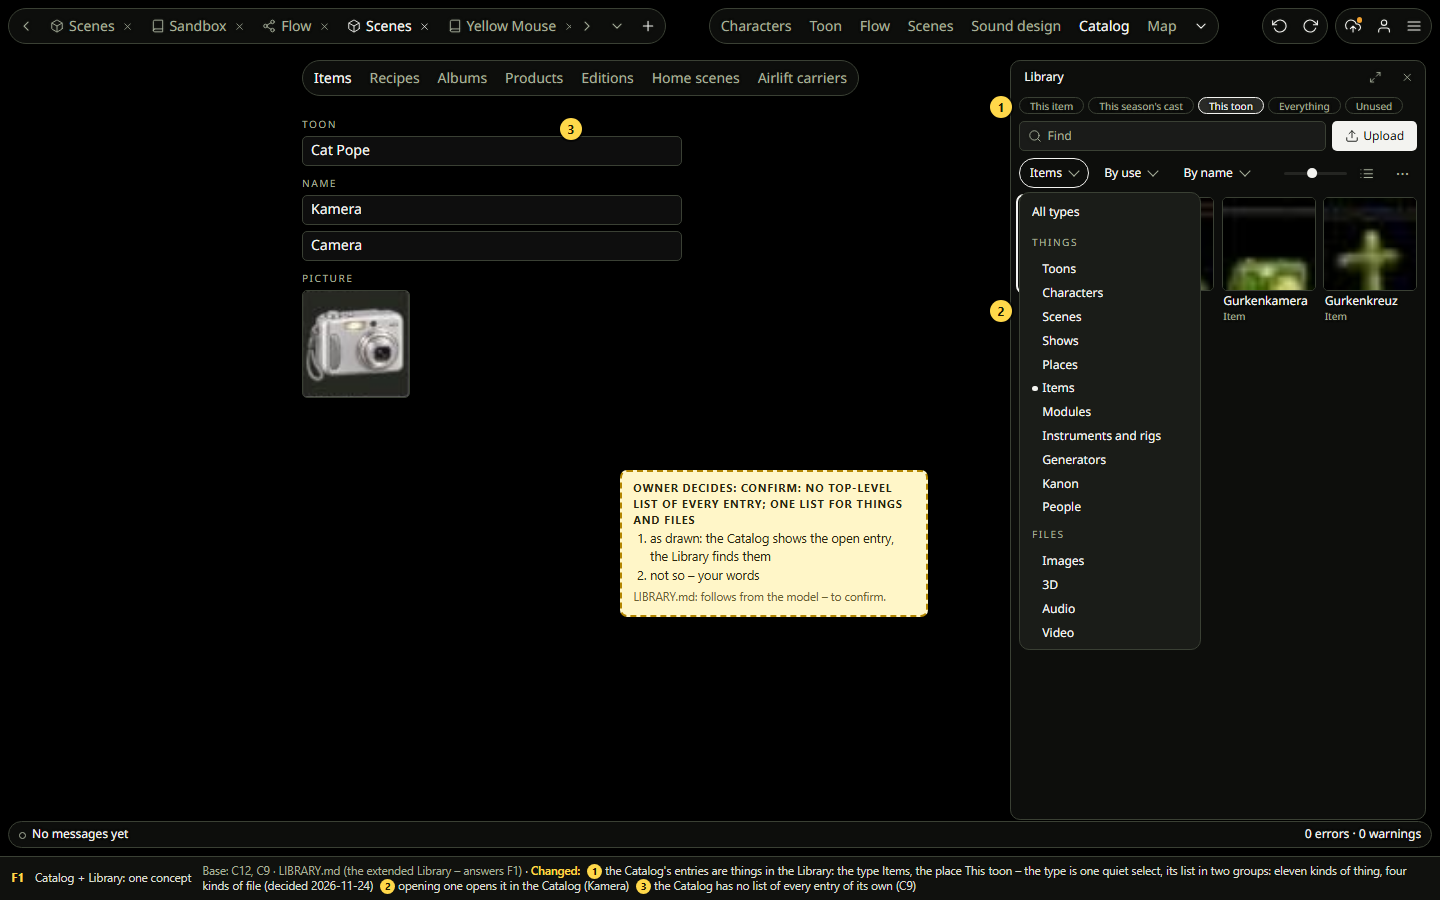
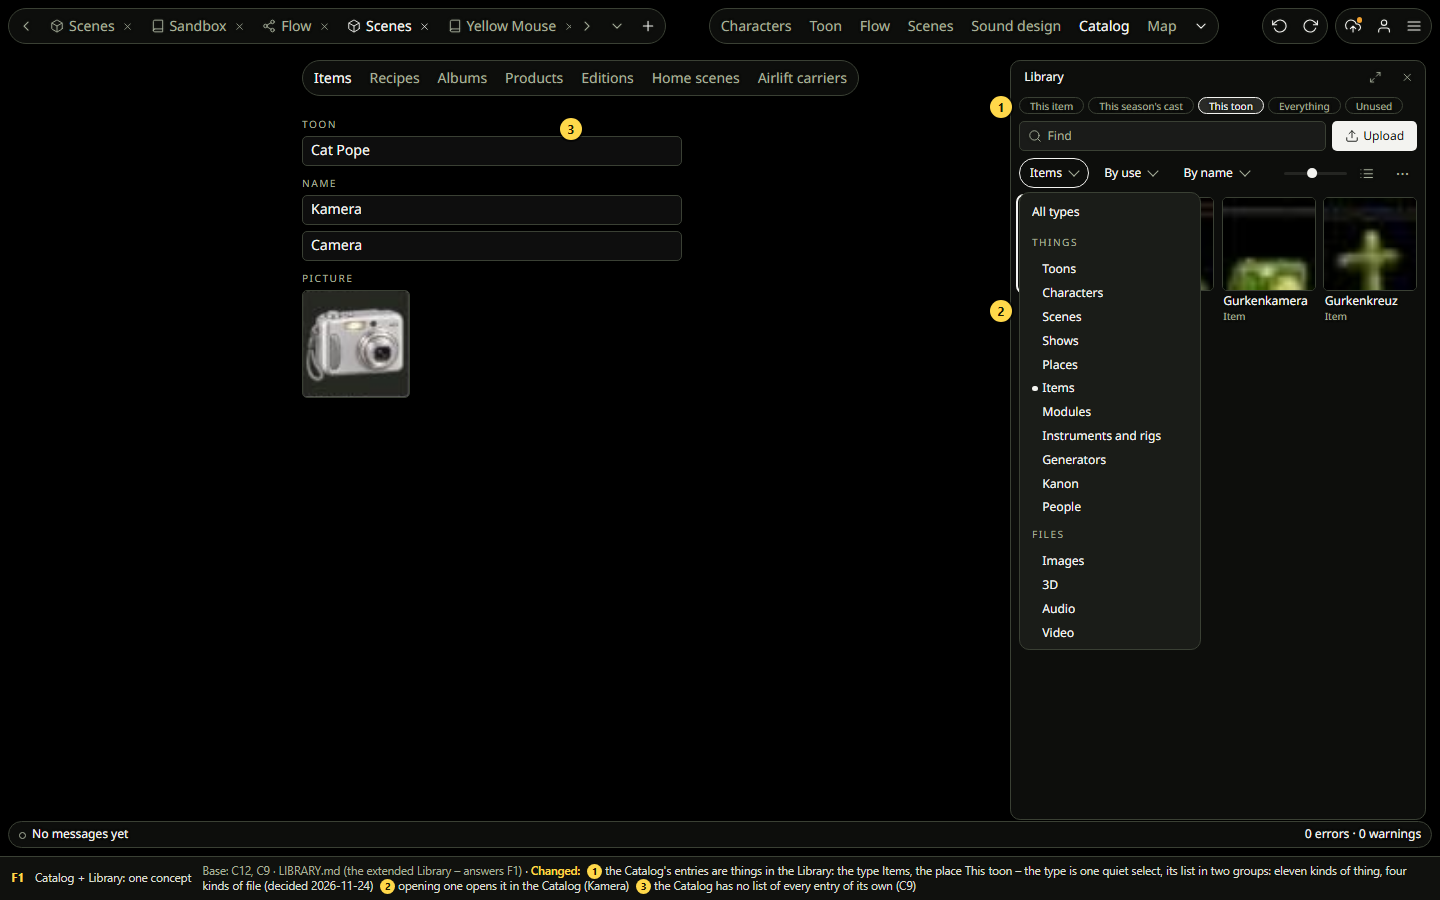
Lap 2 planning: the extended Library's five consequences stand as drawn (owner 2026-11-24); their question cards are off the draft. Refs #626

Changed region(s): [[0.4062, 0.4978, 0.6562, 0.6844]]

diff --git a/agents/research/redesign/lap2/draft-screens.js b/agents/research/redesign/lap2/draft-screens.js
@@ -222,7 +222,7 @@ add('C', 'C1', 'Toon: one toon – seasons, chapters, the cast', 'now/ws-toon (2
   ${fp(1053, 60, 373, 710, [['Flow', 0], ['Log', 1]], LOG_BODY)}
   ${folded(1278, 780, 'Library')}${cstatus('No messages yet', '')}
   ${mk(1, 270, 60)}${mk(2, 236, 96)}${ring(306, 96, 732, 280)}${mk(3, 940, 76)}${mk(4, 282, 118)}
-  ${qcard(306, 560, 'confirm: no top-level list of every toon in the Toon tree', ['as drawn: the tree of the open toon only – the toons are found in the Library', 'not so – your words'], 'LIBRARY.md: follows from the model – to confirm.', '24rem')}`;
+  `;
   });
 add('C', 'C2', 'Chapter', presetBase('chapter'), [KIT],
   () => `${wsFromPreset('Chapter', TOON_ITEMS, [LEFT([['Toon',1],['Tree',0]]), { x: 1076, y: 60, w: 350, h: 420, tabs: [['Inspector',1],['Log',0],['Flow',0]] }, { x: 1092, y: 735, w: 170, tabs: [['Preview',1]], folded: true }, LIBF], pageNotShot())}${mk(1, 270, 60)}`);
@@ -244,8 +244,7 @@ add('C', 'C4b', 'Characters: the Cast tab – cast in', "today's Cast tab (creat
   () => characters({ bar: { chevron: true, items: [['smile','crow-fox'],['smile','crow-lizard'],['smile','mellowmantis'],['smile','catpope']] }, tabs: [['Kanon',0],['Expressions',0],['Rig',0],['Voice',0],['Cast',1],['Generations',0]],
       body: `<div class="label" style="margin:.2rem 0 .5rem">Cast in</div>
       ${CAST_IN.map(([s, p]) => `<div style="display:flex;align-items:center;gap:.6rem;min-height:2.6rem;border-bottom:1px solid var(--tool-line)"><span style="font-size:1rem;text-decoration:underline;text-underline-offset:.2em">${s}</span><span class="muted" style="margin-left:auto">${p}</span><span class="kib muted" title="Open the season's cast in the toon">${ic('r')}</span></div>`).join('')}` })
-    + mk(1, 928, 120) + ring(952, 92, 470, 120) + mk(2, 928, 230)
-    + qcard(420, 140, 'confirm: the cast is no longer edited from each character\'s Cast tab', ['as drawn: the tab shows "cast in" and links to the toon\'s season', 'not so – your words'], 'LIBRARY.md: follows from the model – to confirm.', '22rem'));
+    + mk(1, 928, 120) + ring(952, 92, 470, 120) + mk(2, 928, 230));
 
 const TREE_SCENES = [['Avatar home','‹home› · spot_home · ‹who›','Published'],['Nave','cathedral · catpope','Published'],['Place','‹where›','Published'],['Sandy dunes','dunes','Published'],['Sandy dunes – Giant Popstar','dunes · giantpopstar · mellowmantis','Published'],['Sandy dunes – Sandgirl','dunes · sandgirl','Published'],['Sandy dunes – Sandgirl and S…','dunes · sandgirl · sandy','Published'],['Sandy dunes – stage','dunes · ‹left› · ‹right›','Published'],['Solo','‹where› · ‹who›','Published'],['Stage','‹where› · spot_centre · ‹left› · ‹centre› · ‹right› · ‹b…','Published'],['Three crows rave','crow-wolf · crow-lizard · crow-fox · yellowmouse','Draft']];
 /* today's Tree of every scene (now/creator-6) – gone in lap 2 (LIBRARY.md, decided): kept here only as today's record */
@@ -320,7 +319,7 @@ add('C', 'C9', 'Catalog', 'now/ws-catalog (Items, Kamera open, 2026-11-24)', [KI
       <div style="display:flex;gap:1.2rem;align-items:center">${[['stackable', 0], ['starter', 1], ['a story may take it', 0]].map(([n, on]) => `<span style="display:flex;gap:.45rem;align-items:center"><span class="tg ${on ? 'on' : ''}"></span>${n}</span>`).join('')}</div></div>
     ${folded(1265, 70, 'Log')}${folded(1278, 780, 'Library')}${cstatus('No messages yet', '0 errors · 0 warnings')}
     ${mk(1, 274, 60)}${ring(302, 112, 268, 700)}${mk(2, 546, 118)}${capn(330, 440, 'the list of every entry was here – gone')}${mk(3, 1110, 118)}
-    ${qcard(1100, 300, 'confirm: no top-level list of every entry in the Catalog', ['as drawn: an entry open – the entries are found in the Library (F1)', 'not so – your words'], 'LIBRARY.md: follows from the model – to confirm. The kind tabs (Items … Airlift carriers) kept as today – unclear.', '19rem')}`;
+    `;
   });
 
 add('C', 'C10', 'Map', 'now/creator-5 (the stage 0 px wide) · now/ws-map',
@@ -356,7 +355,7 @@ const catalogBack = (o = {}) => `${cbar({ chevron: true, wsOn: 'Catalog', items:
     <div class="label" style="margin-bottom:.3rem">Name</div><div class="fld" style="margin-bottom:.4rem">Kamera</div><div class="fld" style="margin-bottom:.8rem">Camera</div>
     <div class="label" style="margin-bottom:.3rem">Picture</div><div class="slot" style="width:108px;height:108px;border-style:solid;border-color:var(--tool-line);position:relative;overflow:hidden">${wsPic('catalog', 331, 343, 60, 60, 1.8)}</div></div>
   ${o.log === false ? '' : folded(1265, 70, 'Log')}${cstatus('No messages yet', '0 errors · 0 warnings')}`;
-const qOneList = (x, y, w = '21rem') => qcard(x, y, 'confirm: one list – "Items to open" goes', ['as drawn: things and files in one list, the type the first filter', 'not so – your words'], 'LIBRARY.md: follows from the model – to confirm.', w);
+const qOneList = () => '';   /* confirmed 2026-11-24: one list – no card */
 add('C', 'C12', 'Library: the panel', "today's library-panel.svelte (its parts and words) in now/ws-catalog (Kamera open) · LIBRARY.md (the extended Library)",
   ['the type is one quiet select ("All types"): eleven kinds of thing and four kinds of file, its list in two groups (F1 shows it open) – "Items to open" goes',
    "the places narrow it: This item · This season's cast · This toon · Everything (Unused as today)",
@@ -400,7 +399,7 @@ add('C', 'C12b', 'Library: the browser – a character stepped into', "today's l
       <div style="display:flex;align-items:center;gap:.5rem;margin-bottom:.6rem"><span style="font-size:var(--editor-title)">Library</span><span style="flex:1"></span><span class="kib muted" title="Close the browser (Esc)">${ic('x')}</span></div>
       ${libraryBody({ place: "This season's cast", content: stepIn() })}</div></div>
   ${mk(1, 40, 250)}${mk(2, 300, 330)}${mk(3, 902, 280)}${mk(4, 902, 478)}${mk(5, 40, 230)}${mk(6, 1390, 60)}
-  ${qcard(1000, 600, 'confirm: "By cast" lists the characters and their files', ['as drawn: the cast\'s place shows the characters, stepped into each its files', 'not so – files only, as today'], 'LIBRARY.md: follows from the model – to confirm.', '22rem')}
+  
   ${capn(60, 822, 'Open: do Search and dialogs sit on the overlay level (blurred behind) or on the popover level (sharp)? – drawn as today')}`);
 
 /* C12c: the Library opened from a slot – the "who" (character) of a showMessage event in a chapter of Cat Pope; the cast first, everyone else after (the registry's characters) */
@@ -417,7 +416,7 @@ add('C', 'C12c', 'Library: the pick (a slot asks)', "today's pick mode (library-
     ${libraryPanel(660, 60, 400, 760, { cols: 4, pick: 'character · showMessage', type: 'Characters', place: 'Everything', gap: '.5rem .5rem',
       groups: [['Cat Pope · Season 1 · cast', [tl('catpope'), tl('boy'), tl('crows'), tl('toptoy')]], ['Everyone else', OTHERS]] })}
     ${ring(1082, 154, 340, 36)}${mk(1, 1062, 160)}${mk(2, 640, 300)}${mk(3, 640, 450)}${capn(790, 446, 'picked from here: added to the cast')}${mk(4, 640, 96)}
-    ${qcard(150, 520, 'confirm: one picker – the Library opened from a slot', ['as drawn: the five sheets (character, item, asset, person, role) go', 'not so – your words'], 'LIBRARY.md: follows from the model – to confirm.', '22rem')}`);
+    `);
 
 add('C', 'C13', 'Settings', "the Settings panel in now/creator-6 (the owner's circles)",
   ["kit look: the crafts as the kit's small chips, the theme as the kit's segments, the interface language as the kit's select (today a raw select)", 'the colour-blind mode as a setting (blue, yellow, vermilion – each state with a mark ✓ ! ✕)', "no hint lines in the panel (H14) – the text language's and the local folder's explanations go to hover"],
@@ -501,7 +500,7 @@ add('F', 'F1', 'Catalog + Library: one concept', 'C12, C9 · LIBRARY.md (the ext
    'opening one opens it in the Catalog (Kamera)', 'the Catalog has no list of every entry of its own (C9)'],
   () => `${catalogBack({ log: false })}${libraryPanel(1010, 60, 416, 760, { cols: 4, type: 'Items', typeOpen: true, place: 'This toon', tiles: [tl('kamera', { on: 1 }), tl('gurke'), tl('gurkenkamera'), tl('gurkenkreuz')] })}
   ${mk(1, 990, 96)}${mk(2, 990, 300)}${mk(3, 560, 118)}
-  ${qcard(620, 470, 'confirm: no top-level list of every entry; one list for things and files', ['as drawn: the Catalog shows the open entry, the Library finds them', 'not so – your words'], 'LIBRARY.md: follows from the model – to confirm.', '22rem')}`);
+  `);
 add('F', 'F2', 'The one-look sheet', 'kit-d.html (approved 2026-11-24)', [], frl('kit-d.html', ''), { idle: ' – nothing: approved as drawn' });
 add('F', 'F3', "The scene page's contents", 'C5 (answered: a preview and the link to the deck)', [],
   () => `${scenePageC5()}${capn(640, 820, 'answered – drawn as C5: the page previews and links, it does not edit')}`, { idle: ' – nothing: answered, drawn as C5' });

diff --git a/agents/decisions/creator.md b/agents/decisions/creator.md
@@ -4,6 +4,7 @@ The owner's words, one line each, newest first, append-only (how: agents/DECISIO
 Keys here: `[creator]` 85 the creator app · `[text-boxes]` 9 text boxes · `[timeline]` 3 the timeline
 
 ## 2026-11
+- 2026-11-24 · creator deck · [creator] **The extended Library's five consequences stand as drawn: the second list of things ("items to open") goes – one list; the Catalog tree and the Toon tree lose their top level (no list of every entry or every toon); one picker – the Library opened from a slot – replaces the five sheets (character, item, asset, person, role); the character's Cast tab shows "cast in", read-only, the cast is edited in the toon's season; "By cast" lists the characters and their files.** Owner, on the five question cards of the draft: *"Yes, as drawn."* Trees that travel between workspaces had no card and is not confirmed. · → research/redesign/lap2/LIBRARY.md, PLAN.md P11
 - 2026-11-24 · creator deck · [creator] **The Library's type filter is one quiet select ("All types"), its list in two groups – the eleven kinds of thing and the four kinds of file; the places stay chips.** Asked because fifteen types do not fit a row of chips. Owner: *"Yes, a select."* · → research/redesign/lap2/LIBRARY.md, draft `?s=C12`, `?s=F1`
 - 2026-11-24 · creator deck · [creator] **The extended Library: it lists Toon · Character · Scene · Show · Place · Item (with recipes, products, editions, albums, home scenes) · Module · Instrument and rig · Generator, and for now Kanon texts and people too; it is built in lap 2; a video's tile is one frame (no play on hover for now); the deck's Library is the same Library with the same panel.** Owner, on LIBRARY.md's four open points: *"1. … for now yes. 2. … built it in lap 2. 3. … play on hover is at this point not necessary. 4. … yes."* · → research/redesign/lap2/LIBRARY.md, PLAN.md P11
 - 2026-11-24 · creator · [creator] **The extended Library: it lists things and files. A character's personas, looks and moods stay inside the character (stepped into), with the files it uses beside them. A cast is characters assigned to a toon: found in the Library, edited in the toon – and opening a character from there comes to the Characters workspace to edit it.** Owner: *"Well, but a cast is a character assigned to a toon. So characters get listed alongside their assets like models."* · on the parts inside the character: *"Yes, stay inside character. Makes total sense."* · on found in the Library, edited in the toon: *"Yes. But edited in the toon means we can still just open it and come to the character workspace to edit it."* · *"We need to recap and kick out redundant concepts and redraw many screens now, due to the … extended Library."* What it makes redundant is listed in LIBRARY.md, part decided, part to confirm. · → research/redesign/lap2/LIBRARY.md, PLAN.md P11

diff --git a/agents/research/redesign/lap2/DECISIONS.md b/agents/research/redesign/lap2/DECISIONS.md
@@ -71,7 +71,9 @@ One line per decision. **Open** lists what still needs the owner's word; **Thoug
 - **The extended Library lists things and files** (LIBRARY.md), in both apps with the same panel, built in lap 2. Things: Toon · Character · Scene · Show · Place · Item (with recipes, products, editions, albums, home scenes) · Module · Instrument and rig · Generator, and for now Kanon texts and people. Files: a picture, a model, a sound, a video. The type is one quiet select with its list in two groups; the places are chips.
 - **A thing is stepped into.** A character's personas, looks and moods stay inside it, with the files it uses beside them.
 - **A cast is characters assigned to a toon:** found in the Library, edited in the toon's season. Opening a character from there comes to the Characters workspace.
-- **A list of characters or scenes beside the Library is redundant.** The Scenes workspace has no list of scenes of its own.
+- **One list:** no second list of things beside the Library ("items to open" goes). The Scenes workspace has no list of scenes; the Catalog's and the Toon's trees have no top level listing every entry or every toon.
+- **One picker:** the Library opened from a slot, with what this thing already has first. The five picker sheets (character, item, asset, person, role) go.
+- **The character's Cast tab shows "cast in"**, read-only, with links to the seasons. The Library's "By cast" lists the characters and their files.
 - **Thumbnails:** scenes, places and videos get preview pictures, made in the background and shared across systems (#842). A video's tile is one frame; it does not play on hover for now.
 
 **Thought aloud**
@@ -83,7 +85,7 @@ One line per decision. **Open** lists what still needs the owner's word; **Thoug
 **Open**
 - **The module editor was never designed** – in neither app. The creator's (Sound design) is an empty frame in the draft; the deck's is drawn only with nothing open. Before it is drawn: is the creator's editor removed, and what happens to what only it has (see PLAN.md, P9)?
 - What a good writing experience holds (C14) – your words, or a first draft from me to correct.
-- The extended Library's consequences to confirm (LIBRARY.md): one list instead of two; one picker instead of five sheets; the Catalog's and the Toon's top-level lists go; the Cast tab becomes "cast in"; "By cast" lists the characters; trees do not travel.
+- Trees that travel between workspaces: kicked out, as the Library does the referencing? (LIBRARY.md – the one consequence not confirmed.)
 - Trees: the Library's "Items to open" against the trees; a borrowed tree – jump or reference.
 - Where the 2D-first / 3D-first preference sits.
 - Does the word "instrument" stay? MODULES-DNA.md points 2–7.

diff --git a/agents/research/redesign/lap2/LIBRARY.md b/agents/research/redesign/lap2/LIBRARY.md
@@ -36,11 +36,11 @@
 | The Library's "To do" group: Blank – wanted · Missing versions · Missing credits | a gap may be on purpose | decided |
 | The Bones and Clips lists in the creator's Rig panel | the deck's asset view has them | decided |
 | The Show's "fires on" sheet and its own pill in the bar | the row's ⚡ slot; views | decided |
-| The second list of things beside the files ("items to open") | one Library | follows – confirm |
-| The Catalog tree's and the Toon tree's top level (every entry, every toon) | lists of what exists are the Library's | follows – confirm |
-| The five picker sheets (character, item, asset, person, role) | the Library opened from a slot | follows – confirm |
-| Editing the cast from each character's Cast tab | the cast is edited in the toon's season; the tab shows "cast in" and links there | follows – confirm |
-| "By cast" showing files only | the place lists the characters and their files | follows – confirm |
+| The second list of things beside the files ("items to open") | one Library | decided |
+| The Catalog tree's and the Toon tree's top level (every entry, every toon) | lists of what exists are the Library's | decided |
+| The five picker sheets (character, item, asset, person, role) | the Library opened from a slot | decided |
+| Editing the cast from each character's Cast tab | the cast is edited in the toon's season; the tab shows "cast in" and links there | decided |
+| "By cast" showing files only | the place lists the characters and their files | decided |
 | Trees that travel between workspaces (TREES.md, point 4) | referencing is done from the Library | follows – confirm |
 
 ## What stays
@@ -66,7 +66,8 @@
 2. **Built in lap 2.**
 3. **A video's tile is one frame.** Playing on hover is not needed at this point.
 4. **The deck's Library is the same extended Library, with the same panel.**
+6. **The five consequences drawn with a question card stand as drawn:** one list ("items to open" goes); the Catalog's and the Toon's trees without their top level; one picker, the Library opened from a slot; the Cast tab as "cast in"; "By cast" lists the characters and their files.
 5. **The type filter is one quiet select** ("All types"), its list in two groups – things and files. The places stay a row of chips.
 
 ## Open
-1. **The five consequences marked "follows – confirm"** in the recap above; each has a question card on its screen.
+1. **Trees that travel between workspaces** (the recap's last line) is the one consequence not confirmed – no screen shows it.

diff --git a/agents/research/redesign/lap2/NOTES.md b/agents/research/redesign/lap2/NOTES.md
@@ -123,3 +123,4 @@ Later, after these: the scene page + open in the deck; Catalog + Library; the on
 - **The extended Library's four open points answered** (owner): the types as listed, Kanon texts and people *"for now yes"*; *"built it in lap 2"*; a video's tile one frame – *"play on hover is at this point not necessary"*; the deck's Library the same panel – *"yes"*. LIBRARY.md, decisions/creator.md, DECISIONS.md §5, PLAN.md P11. Follow-up for the pictures: C12's type chips cover four kinds of thing – eleven do not fit a chip row.
 - **The deck orchestrator on P11** (2026-11-24): the deck's Library already is a typed list of things and files (deck-catalog `library`, `Entry { address, label, detail, kind, preview, made_for }`, 13 kinds, one deck-kit browser with kind facets, typeahead, "related to", drop rules, open-in-editor); the lists are assembled per workspace (`of_build`, `of_scene`, the book); Toon, Show, Generator, Kanon, Person are not kinds. Needs: one server endpoint both apps read (the main cost; else a twin in Rust), levels and "used in" on an entry, the five new kinds with their drop rule and open target, item subtypes as facets, video frames from P3's stills. After P3 and the endpoint; M–L for the deck. Folded into PLAN.md P11.
 - **Decided: the Library's type filter is one quiet select** (owner: *"Yes, a select."*) – LIBRARY.md, decisions/creator.md; drawn on C12 (closed) and F1 (open, two groups) and in every Library panel of the draft.
+- **Decided: the extended Library's five consequences** (owner on the draft's question cards: *"Yes, as drawn."*) – one list, the trees' top levels gone, one picker, the Cast tab as "cast in", "By cast" with characters. decisions/creator.md, LIBRARY.md, DECISIONS.md §5, PLAN.md P11; the five cards are off the draft. "Trees that travel" stays unconfirmed.

diff --git a/agents/research/redesign/lap2/PLAN.md b/agents/research/redesign/lap2/PLAN.md
@@ -106,7 +106,7 @@ The Library lists things and files; a thing is stepped into; an assignment shows
   - **Order:** after P3 and after the endpoint exists. Medium to large for the deck.
 - **In lap 2** (decided). It is the largest package: the Library learns to list things of eleven kinds beside the files, in both apps.
 - **Types** (decided): Toon · Character · Scene · Show · Place · Item · Module · Instrument and rig · Generator, and for now Kanon texts and people.
-- **Waits for your word:** the five consequences marked "to confirm" in LIBRARY.md.
+- **Decided with it:** one list, one picker (the five sheets go), the Catalog's and the Toon's trees without their top level, the Cast tab as "cast in", "By cast" listing characters.
 
 ### P8 · Bugs and wording
 - The Map's stage at 0 px.
@@ -153,7 +153,7 @@ These block a package. Each is in DECISIONS.md under its area.
 | "Open in the deck" with no deck installed | P4 |
 | The module editor: is the creator's removed, and what happens to what only it has | P9 |
 | What a good writing experience holds | P10 |
-| The extended Library: its five consequences to confirm; what dropping a Toon, a Show, a Generator, a Kanon text or a person does, and where each opens (LIBRARY.md) | P11 |
+| The extended Library: what dropping a Toon, a Show, a Generator, a Kanon text or a person does, and where each opens (LIBRARY.md) | P11 |
 | P0 as part of the night run, or drawn and reviewed by you before it | everything |
 
 These do not block the run; their screens stay out of it:
